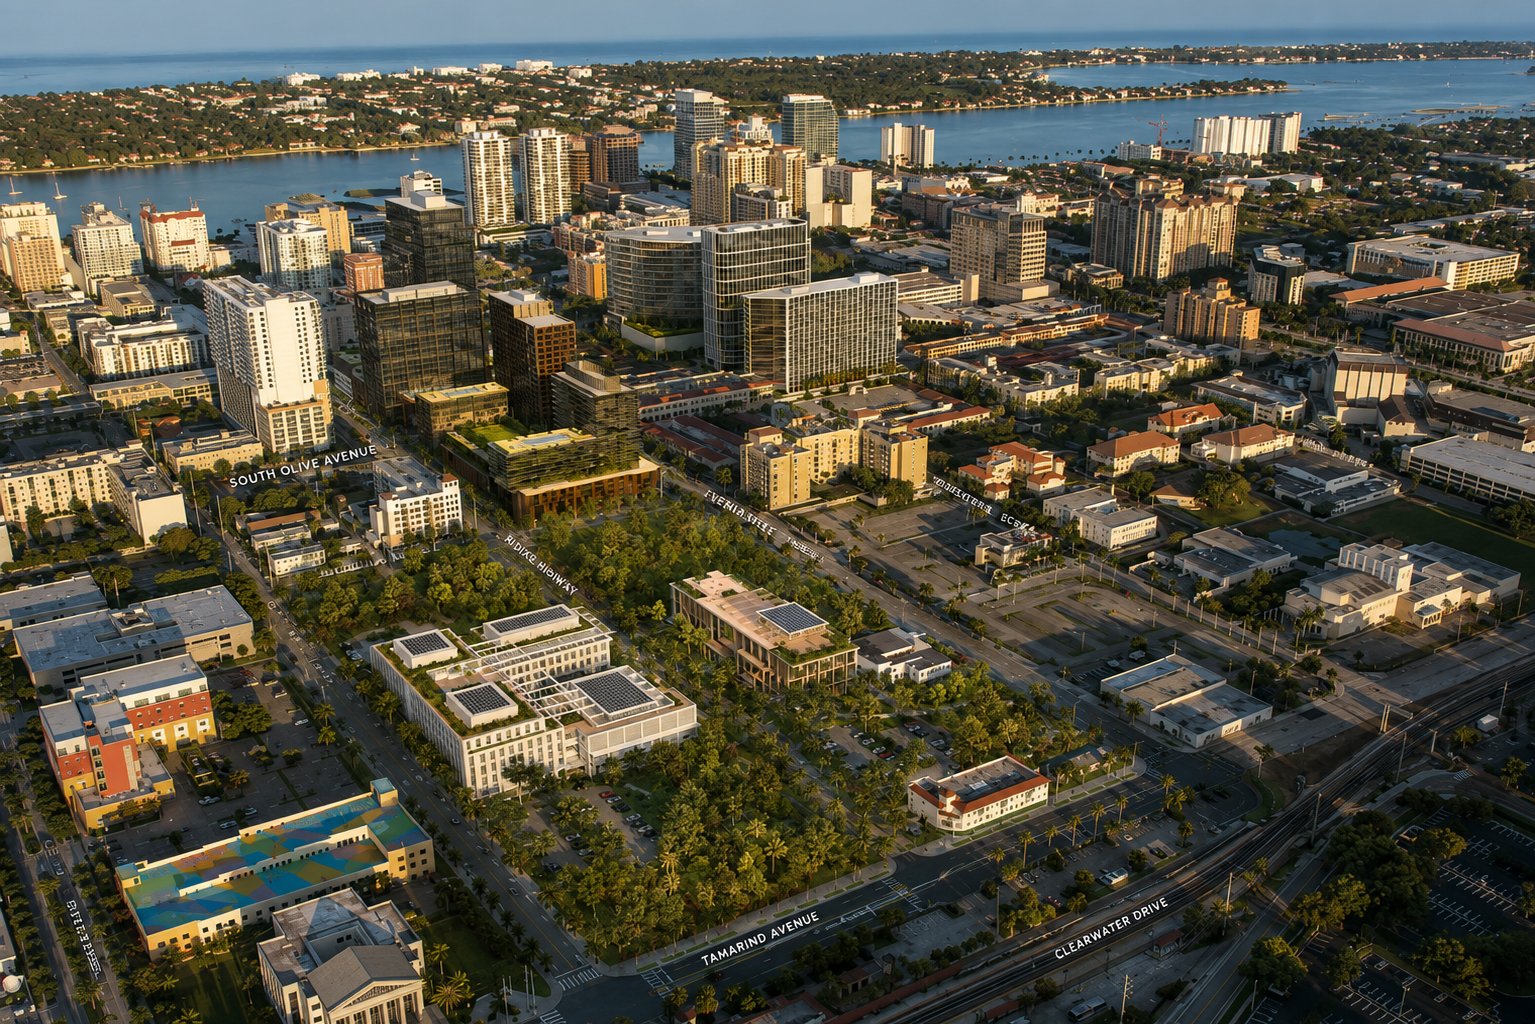
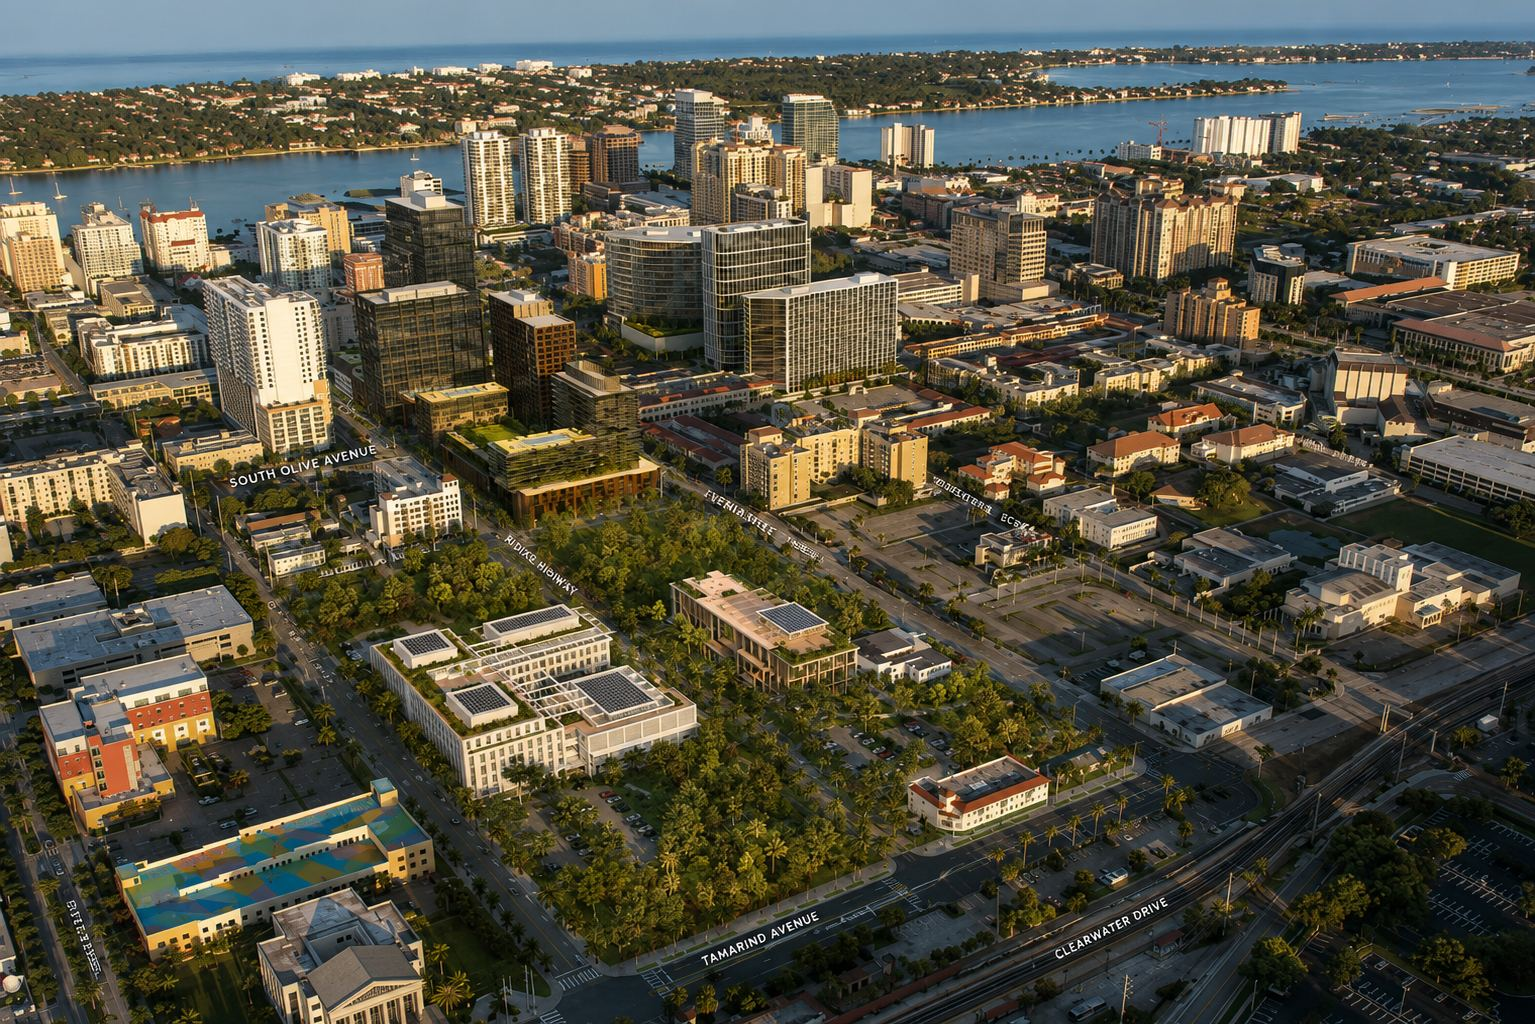
Publish Pine Crest update route

Changed region(s): [[0.6124, 0.3125, 0.643, 0.3438], [0.0919, 0.9062, 0.1225, 0.9375]]

diff --git a/src/data/approvedExternalNews.ts b/src/data/approvedExternalNews.ts
@@ -67,6 +67,88 @@ export function isHomepageContextLane(item: ExternalNewsItem): boolean {
 
 export const approvedExternalNews: readonly ExternalNewsItem[] = [
   {
+    "id": "pine-crest-west-palm-beach-campus-2026-06-08",
+    "slug": "pine-crest-west-palm-beach-campus-2026-06-08",
+    "title": "Pine Crest's West Palm Beach campus adds another family-infrastructure signal",
+    "sourceName": "Palm Beach Post and Pine Crest School",
+    "sourceUrl": "https://www.palmbeachpost.com/story/business/real-estate/2026/06/03/south-floridas-pine-crest-private-school-will-open-a-west-palm-campus/90391865007/",
+    "canonicalUrl": "https://www.palmbeachpost.com/story/business/real-estate/2026/06/03/south-floridas-pine-crest-private-school-will-open-a-west-palm-campus/90391865007/",
+    "sourceTitle": "South Florida's Pine Crest private school will open a West Palm campus",
+    "publishedAt": "2026-06-08T09:00:00-04:00",
+    "sourcePublishedAt": "2026-06-03",
+    "sourcePublishedDate": "2026-06-03",
+    "eventDate": "2026-06-03",
+    "dateDiscovered": "2026-06-08",
+    "freshnessLane": "breaking_14d",
+    "fetchedAt": "2026-06-08",
+    "deck": "Pine Crest School's planned West Palm Beach campus strengthens the city's shift from seasonal luxury market to full-time executive family destination.",
+    "description": "Pine Crest's planned West Palm Beach campus adds another family-infrastructure signal for buyers tracking the city's long-term residential demand.",
+    "summary": "For West Palm Beach buyers, Pine Crest's planned campus is not just school news. It is another sign that the city is building the full-time infrastructure needed to support relocating families, executives, and long-term residential demand.",
+    "bodySections": [
+      {
+        "heading": "What happened",
+        "body": "Pine Crest announced plans for a West Palm Beach campus in June 2026, supported by a philanthropic commitment from the Stephen M. Ross Foundation. The Palm Beach Post also covered the planned campus as part of the school's South Florida expansion."
+      },
+      {
+        "heading": "Why buyers should watch it",
+        "body": "Private-school access is one of the practical signals that can turn a luxury condo market from a seasonal destination into a stronger full-time relocation market. A Pine Crest presence in West Palm Beach would add another family-infrastructure point alongside the city's office, dining, medical, and waterfront residential growth."
+      },
+      {
+        "heading": "What is still unknown",
+        "body": "Public details such as exact location, grade levels, admissions timing, and opening date have not yet been finalized. Buyers should treat this as a long-term infrastructure signal rather than a near-term guarantee for any specific building or corridor."
+      }
+    ],
+    "whyItMatters": "The announcement helps explain why West Palm Beach's luxury-condo demand is increasingly tied to full-time living infrastructure, not only waterfront views and seasonal migration.",
+    "buyerContext": "This is most useful for relocating families and buyers comparing West Palm Beach with Palm Beach, Miami, or Fort Lauderdale. It does not change current building pricing, but it adds context to long-term demand around family-friendly luxury living.",
+    "newsletterHeadline": "Pine Crest plans a West Palm campus",
+    "newsletterBlurb": "The planned campus gives West Palm Beach another family-infrastructure signal as the city continues shifting toward full-time executive and family demand.",
+    "newsletterCta": "See what it means for buyers",
+    "query": "Pine Crest West Palm Beach campus Stephen M. Ross Foundation",
+    "category": "city",
+    "relatedProjectIds": [
+      "south-flagler-house",
+      "la-clara",
+      "forte",
+      "mr-c",
+      "nora-house"
+    ],
+    "relatedCorridorIds": [
+      "downtown",
+      "south-flagler",
+      "north-flagler"
+    ],
+    "relatedProjectSlugs": [
+      "south-flagler-house",
+      "la-clara",
+      "forte",
+      "mr-c",
+      "nora-house"
+    ],
+    "relatedCorridors": [
+      "downtown",
+      "south-flagler",
+      "north-flagler"
+    ],
+    "corridorLabel": "West Palm Beach",
+    "imagePath": "/assets/editorial/pine-crest-west-palm-beach-campus-hero.jpg",
+    "sourceLinks": [
+      {
+        "label": "Palm Beach Post Pine Crest West Palm Beach campus coverage",
+        "url": "https://www.palmbeachpost.com/story/business/real-estate/2026/06/03/south-floridas-pine-crest-private-school-will-open-a-west-palm-campus/90391865007/",
+        "type": "news"
+      },
+      {
+        "label": "Pine Crest Growing Together announcement",
+        "url": "https://www.pinecrest.edu/growing-together",
+        "type": "official"
+      }
+    ],
+    "paywallStatus": "free",
+    "status": "published",
+    "riskLevel": "medium",
+    "primaryProjectSlug": "south-flagler-house"
+  },
+  {
     "id": "trd-jeff-greene-live-local-120-s-dixie-2026-06-05",
     "slug": "trd-jeff-greene-live-local-120-s-dixie-2026-06-05",
     "title": "Jeff Greene’s latest downtown West Palm proposal would bring workforce housing and mass-timber construction to Dixie and Datura",
